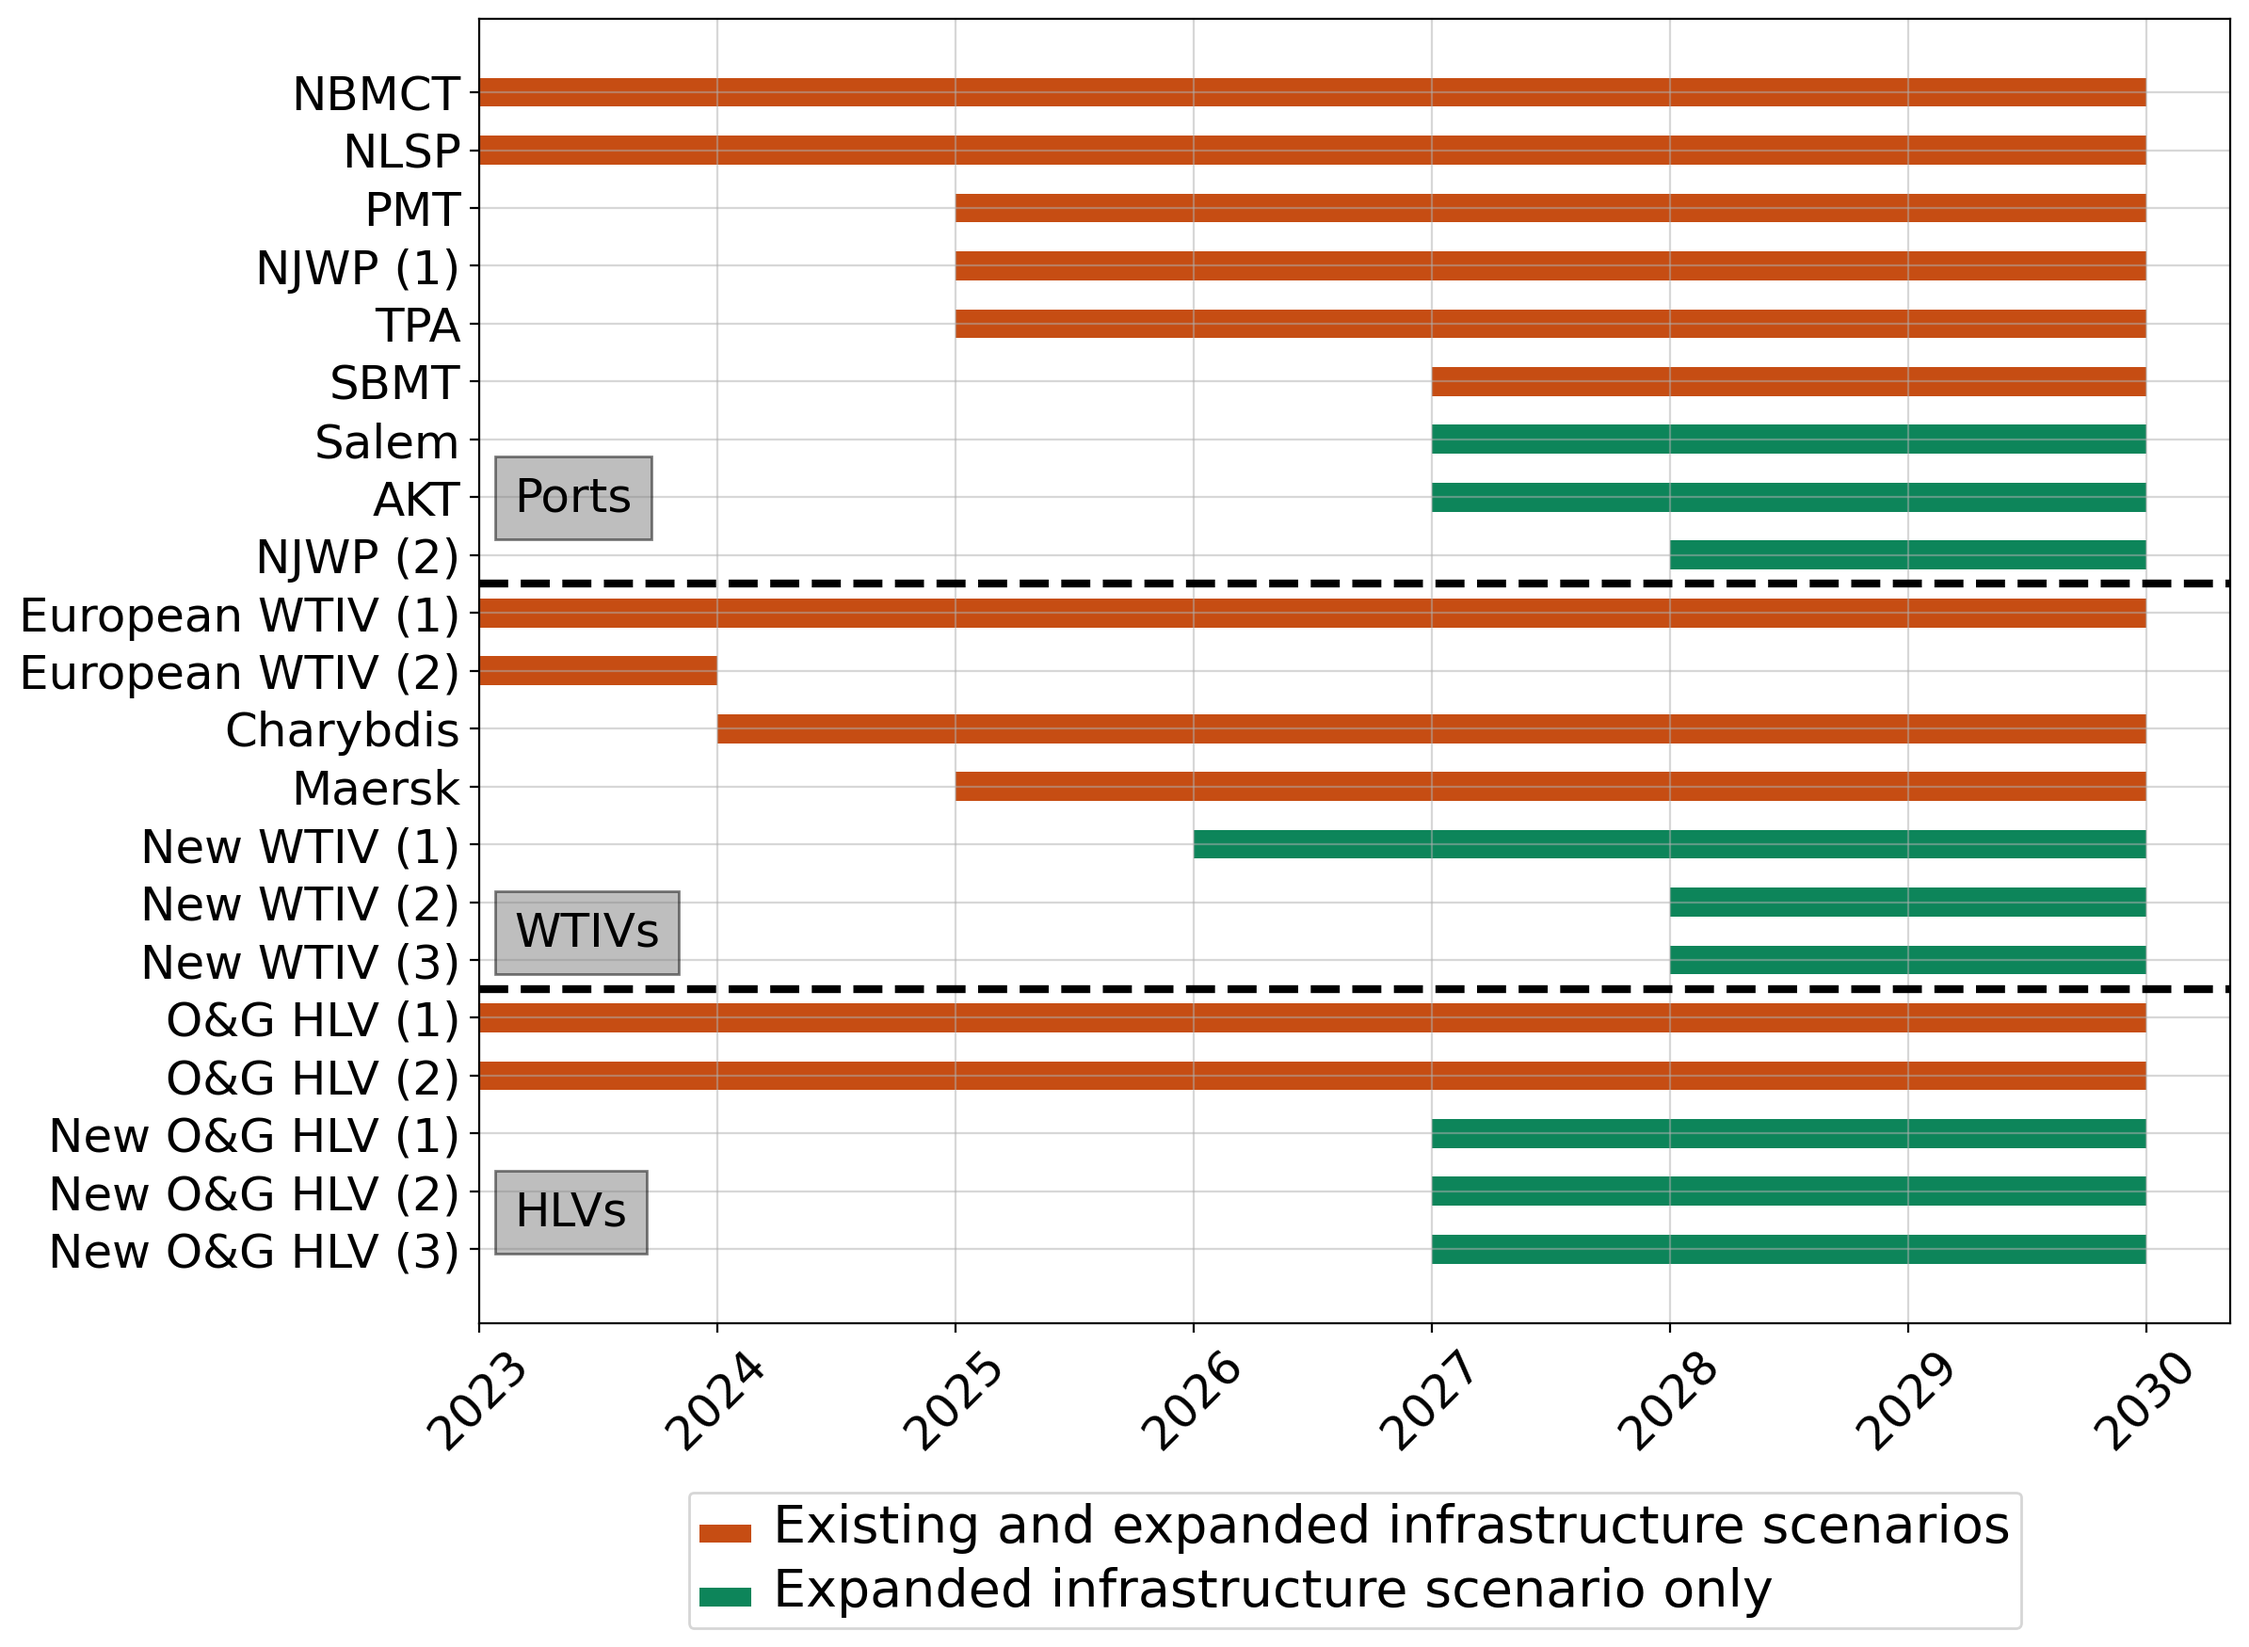
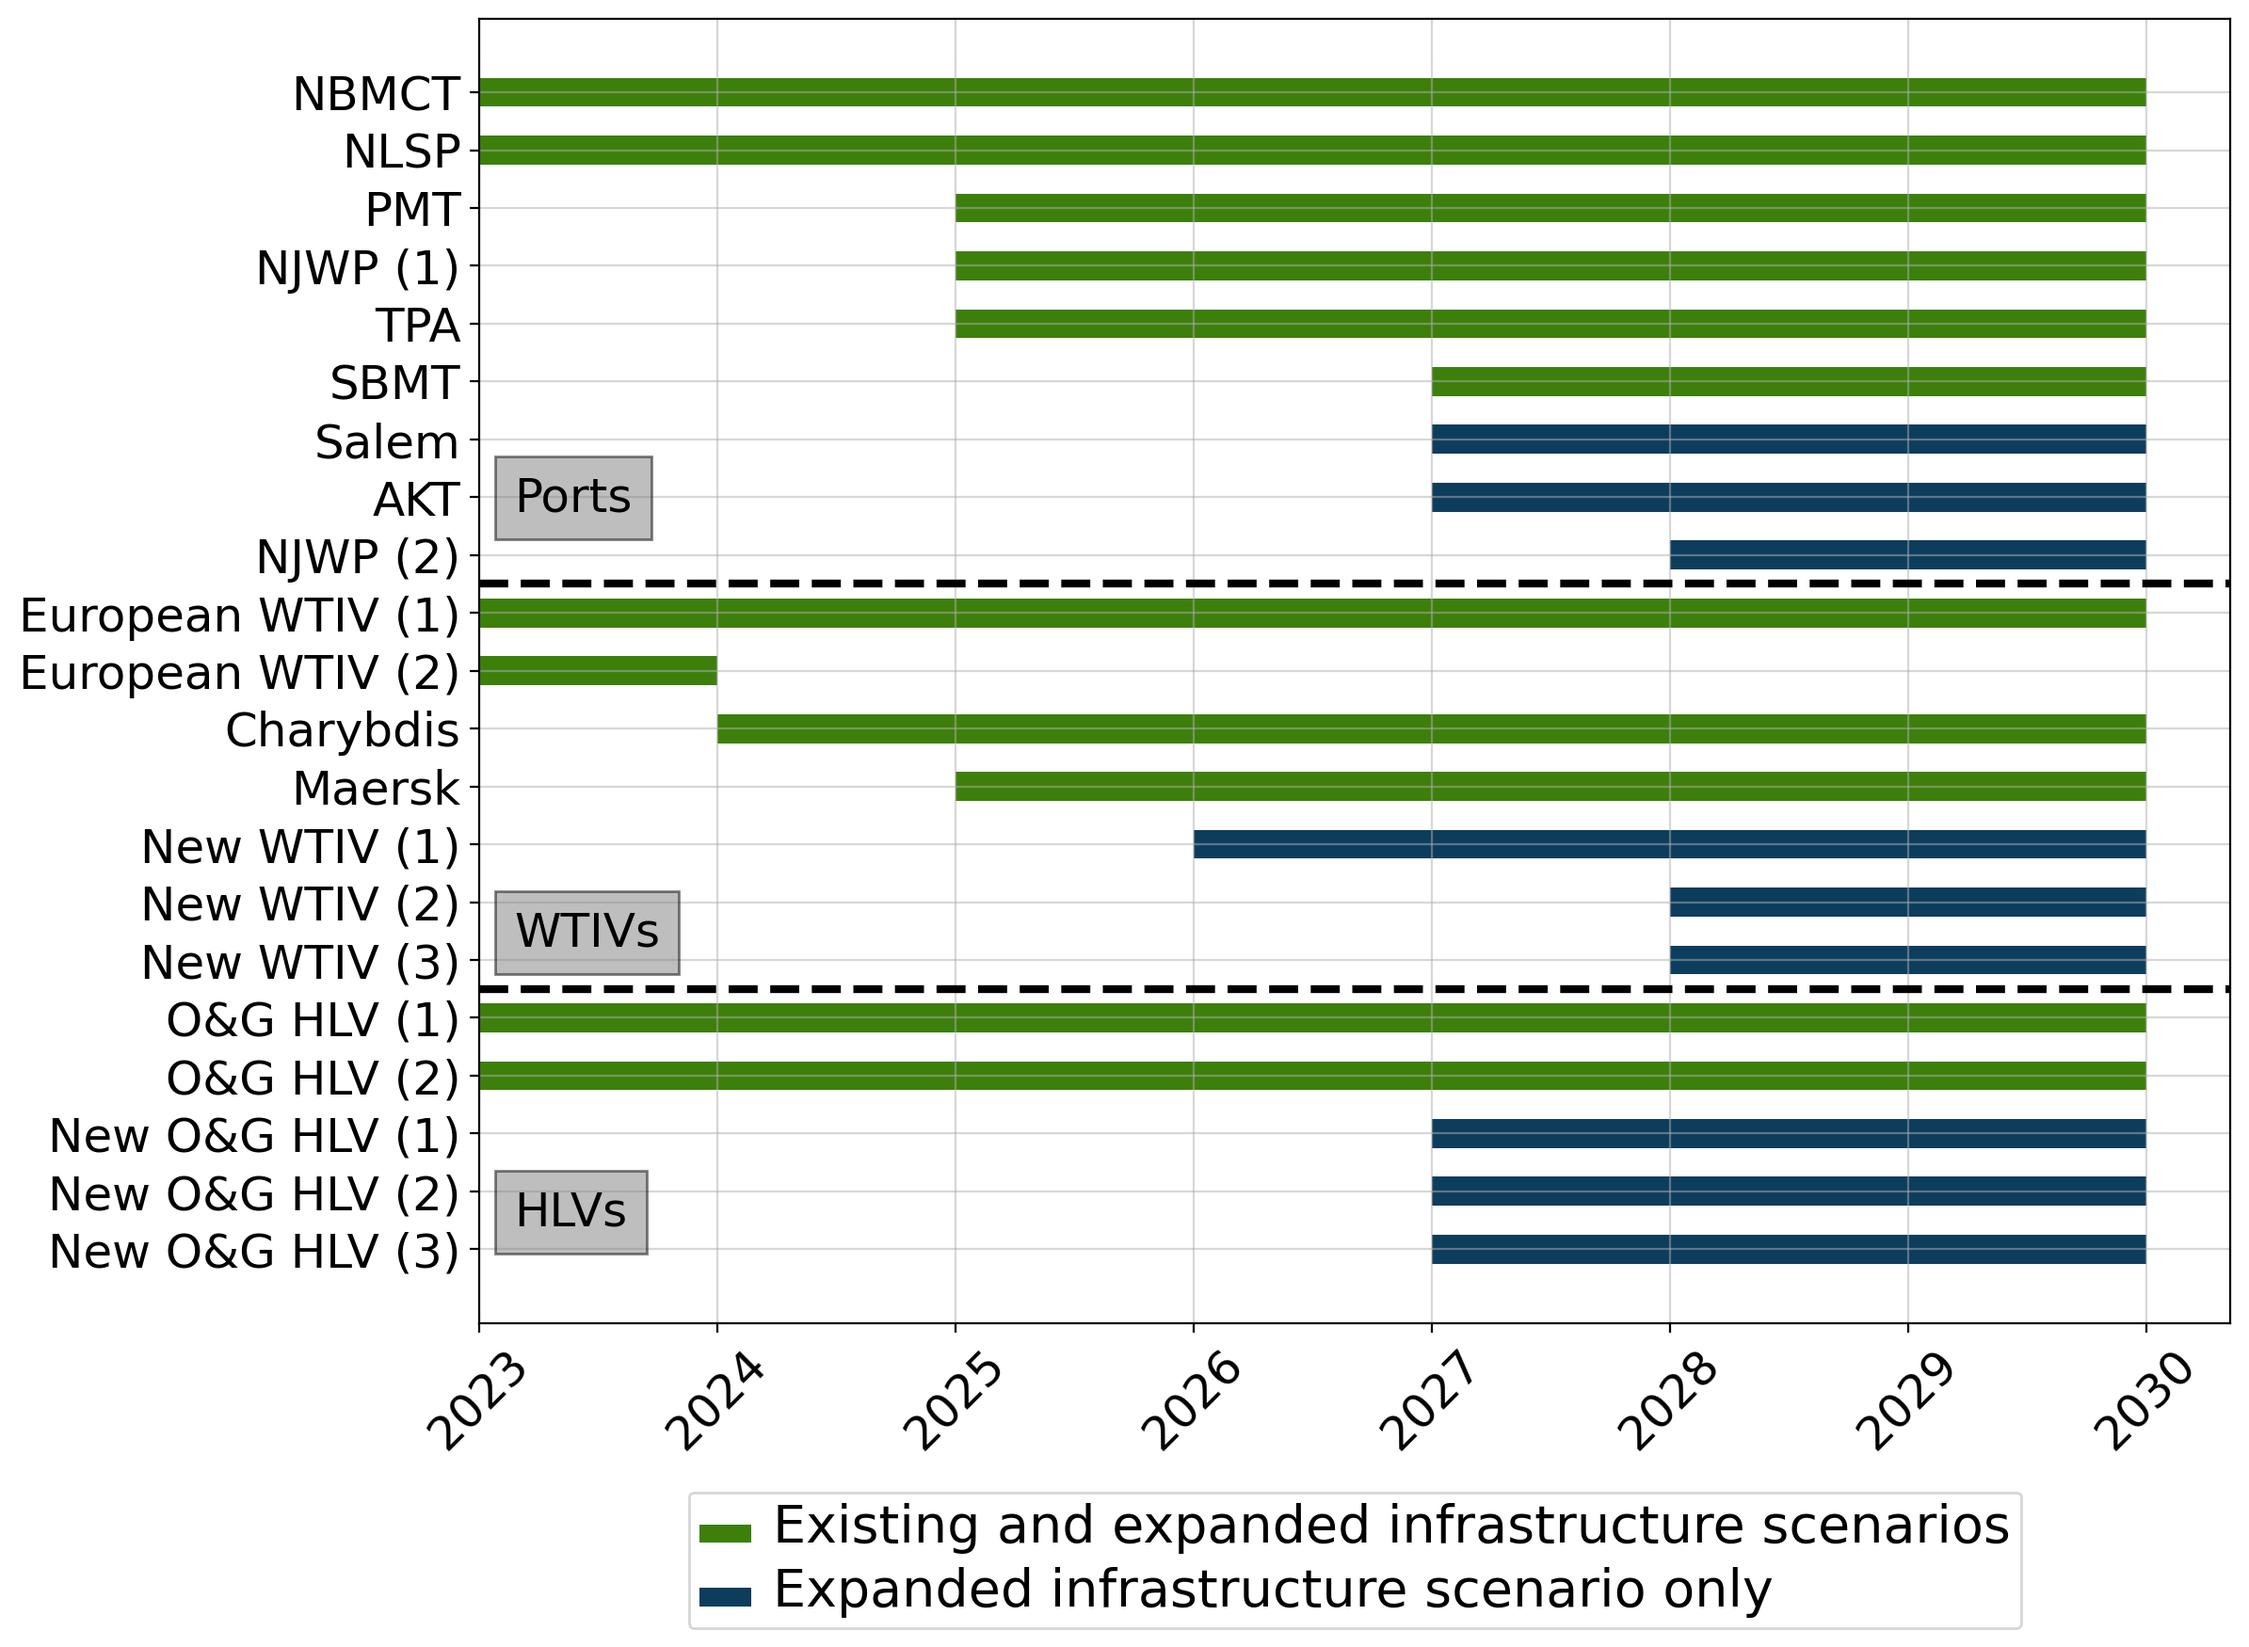
Updated port/vessel gantt

Changed region(s): [[0.2168, 0.0309, 0.9602, 0.7714], [0.3098, 0.9257, 0.3407, 0.9874]]

diff --git a/main.py b/main.py
@@ -15,11 +15,11 @@ scenarios = {
 'legend': 'Accelerated supply chain growth',
 'linetype': '--'
 },
-'Conservative': {
-'filepath_ports': "fabrication_ports/ports_scenario_max.xlsx",
-'legend': 'Conservative supply chain growth',
-'linetype': '.-'
-},
+# 'Conservative': {
+# 'filepath_ports': "fabrication_ports/ports_scenario_max.xlsx",
+# 'legend': 'Conservative supply chain growth',
+# 'linetype': '.-'
+# },
 # 'Aggressive': {
 # 'filepath_ports': "fabrication_ports/ports_scenario_aggressive.xlsx",
 # 'legend': 'Aggressive supply chain growth',

diff --git a/helpers.py b/helpers.py
@@ -108,8 +108,8 @@ color_list = {
     'Announced_hatch': '\\\\',
     'Scenario_hatch': '...',
     # Color scheme for port and vessel scenarios
-    'Existing': '#C64D13',
-    'Expanded': '#0D855A',
+    'Existing': '#3D7F0B',
+    'Expanded': '#0D3D5C',
 
 }
 

diff --git a/plot_routines.py b/plot_routines.py
@@ -431,6 +431,8 @@ def simple_bar(x, y, yticks, xlabel=None, ylabel=None, fname=None):
     ax.set_ylabel(ylabel)
     ax.set_yticks(yticks)
 
+    ax.set_xticklabels(x, rotation=45)
+
     if fname:
         myformat(ax)
         mysave(fig, fname)
